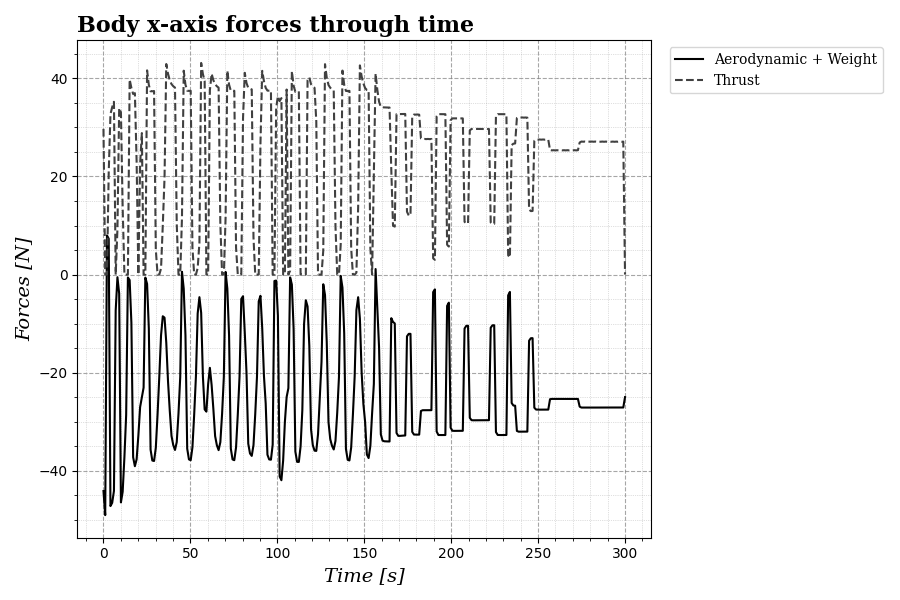
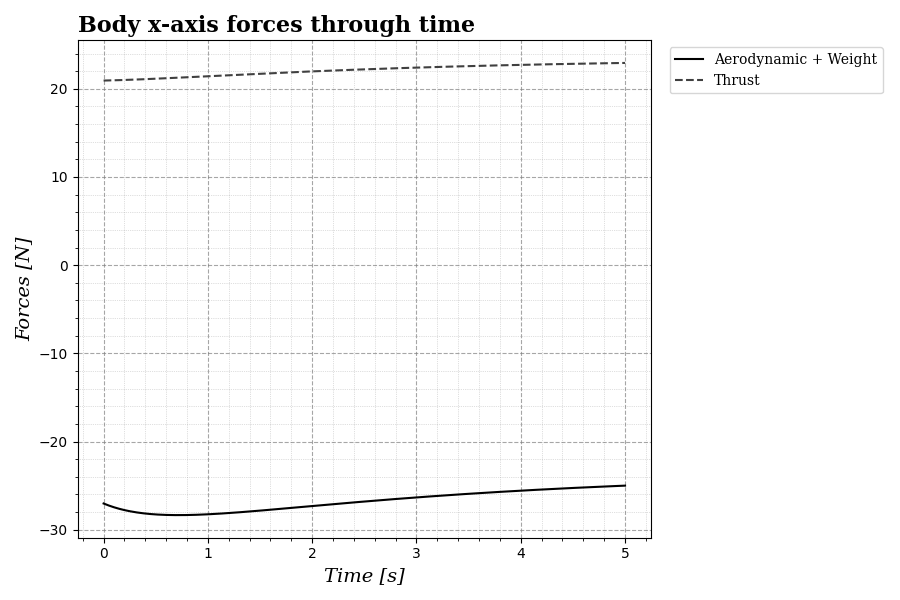
Minor changes. Still searching discrepancies on control.

diff --git a/code/main_IPOPT.py b/code/main_IPOPT.py
@@ -50,7 +50,7 @@ sim.x0[7] = aircraft.BEM + aircraft.FM + aircraft.PM
 x0 = sim.x0[1:8]
 
 # Initial state vector
-sim.w0 = ca.vertcat(x0, [0.75, 0.05])
+sim.w0 = ca.vertcat(x0, [0.837, -0.0742])
 
 ###########################################################
 ##          PROBLEM DEFINITION AND SOLUTION              ##
@@ -83,9 +83,9 @@ sol = solver(
 )
 
 # Retrieving of iterations values and objective value.
-#iters = solver.stats()['iter_count']
-#obj = solver.stats()['iterations']['obj']
-#time = np.round(solver.stats()['t_proc_total'],3)
+iters = solver.stats()['iter_count']
+obj = solver.stats()['iterations']['obj']
+time = np.round(solver.stats()['t_proc_total'],3)
 
 ###########################################################
 ##                     POSTPROCESS                       ##
@@ -192,4 +192,4 @@ Plotter.GENERATE_PLOT(t,np.column_stack((Fzb_A, Fzb_W)),["Aerodynamic", "Weight"
 Plotter.GENERATE_PLOT(t,u1,r"$\delta_T$",["Time [s]", "TPS [-]","Throttle position through time","CONTROL_dT.png"],path)
 Plotter.GENERATE_PLOT(t,u2,r"$\delta_e$",["Time [s]", "Elevator [rad]","Elevator deflection through time","CONTROL_de.png"],path)
 Plotter.GENERATE_PLOT(x5,-x6,"Trajectory",["Horizontal distance [m]", "Altitude AGL [m]","Aircraft's trajectory","TRAJECTORY.png"],path)
-#Plotter.GENERATE_PLOT(np.linspace(1,iters+1,len(obj)),np.array(obj),"Objective cost",["Iterations [-]", "Cost objective [-]", "Cost evolution. Total computation time: " f"{time} s", "COST.png"], path)
+Plotter.GENERATE_PLOT(np.linspace(1,iters+1,len(obj)),np.array(obj),"Objective cost",["Iterations [-]", "Cost objective [-]", "Cost evolution. Total computation time: " f"{time} s", "COST.png"], path)

diff --git a/code/nonlinearprogramming.py b/code/nonlinearprogramming.py
@@ -203,7 +203,6 @@ class NLP_CRUISE:
         g_dyn = []
         lbg_dyn = []
         ubg_dyn = []
-
         for k in range(N-1):
             wi = w[9*k:9*(k+1)]
             wj = w[9*(k+1):9*(k+2)]
@@ -250,14 +249,13 @@ class NLP_CRUISE:
         J = 0
         dT = sim.dT
         N = sim.N
-
         for k in range(N-1):
             # Weights assignation for gamma, gamma dot and controls.
-            wg = 0.0
-            wh = 1.0
-            wg_dot = 0.0
-            wdt = 0.0
-            wde = 0.0
+            wg = 0.45
+            wh = 0.45
+            wg_dot = 0.6
+            wdt = 0.60
+            wde = 0.75
 
             # Normalisation vars.
             g_max = np.deg2rad(12.0)
@@ -290,5 +288,5 @@ class NLP_CRUISE:
             hj = -wj[5]
 
             # COST FUCNTIONAL (Minimisation of gamma, gamma dot and controls)
-            J += dT/2 * (wg*(gi**2 + gj**2) / g_max**2 + wg_dot*(gi_dot**2 + gj_dot**2) / g_dot_max**2  + wh*((hi - href)**2 / href**2 + (hj - href)**2 / href**2)) + wde*(wj[8] - wi[8])**2 / (sim.dT*de_max)**2 + wdt*(wj[7] - wi[7])**2 / sim.dT**2 
+            J += dT/2 * (wg*(gi**2 + gj**2) / g_max**2 + wg_dot*(gi_dot**2 + gj_dot**2) / g_dot_max**2  + wh*((hi - href)**2 / href**2 + (hj - href)**2 / href**2)) + wde*(wj[8] - wi[8])**2 / (sim.dT*de_max)**2 + wdt*(wj[7] - wi[7])**2 / sim.dT**2
         return J 

diff --git a/code/plotterfunction.py b/code/plotterfunction.py
@@ -34,6 +34,6 @@ class Plotter:
 
         # Save to indicated path.
         plt.savefig(os.path.join(path, titles[3]))
-        plt.close()
+        plt.show()
 
         
